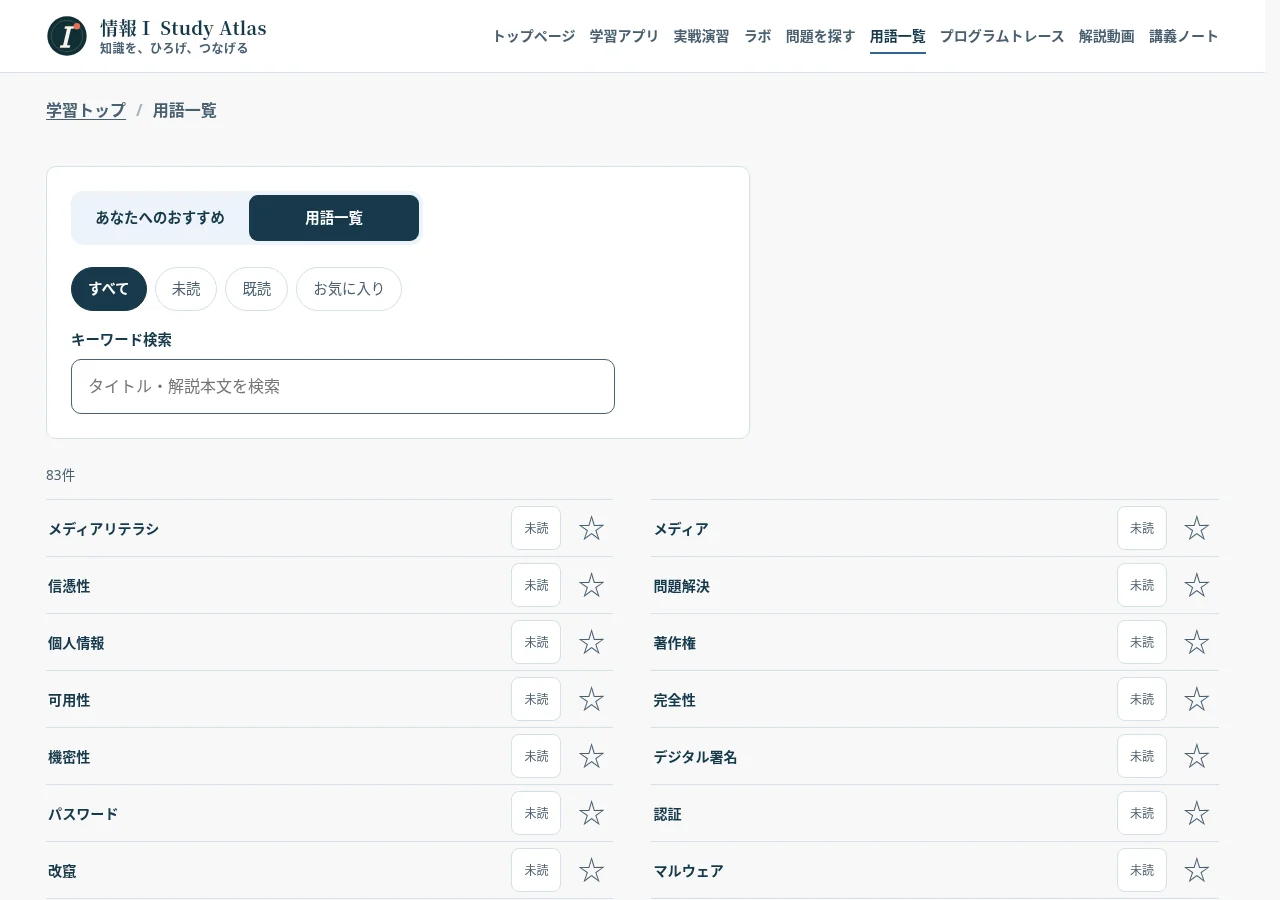
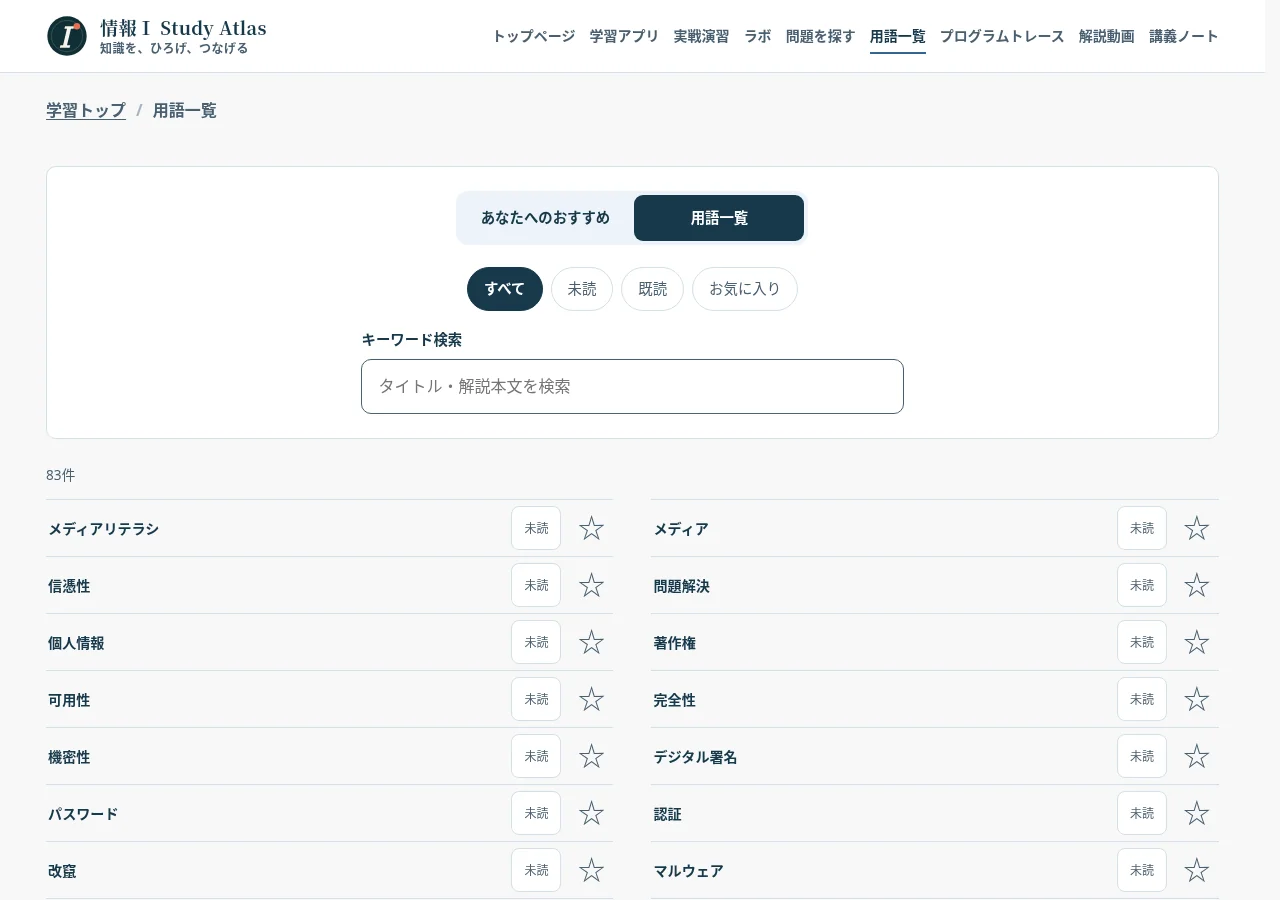
検索・試験選択の枠幅を揃えて操作を中央に配置

diff --git a/assets/term-page.css b/assets/term-page.css
@@ -285,7 +285,7 @@
 }
 
 /* Shared learning controls; the static list remains usable without JavaScript. */
-.term-controls { max-inline-size: var(--atlas-filter-panel); margin: 0 0 20px; padding: clamp(14px, 3vw, 24px); border: 1px solid var(--atlas-line); border-radius: var(--atlas-radius); background: var(--atlas-surface); }
+.term-controls { margin: 0 0 20px; padding: clamp(14px, 3vw, 24px); border: 1px solid var(--atlas-line); border-radius: var(--atlas-radius); background: var(--atlas-surface); }
 .term-controls fieldset { display: flex; flex-wrap: wrap; gap: 8px 18px; margin: 0 0 16px; padding: 0; border: 0; }
 .term-controls label { display: inline-flex; align-items: center; gap: 6px; min-height: 44px; cursor: pointer; font-size: .9rem; }
 .term-controls .term-search-label { display: block; min-height: 0; margin-bottom: 6px; font-weight: 700; }
@@ -340,3 +340,11 @@ button.term-read-status:focus-visible { outline: 3px solid var(--blue-strong); o
 .term-excerpt-link { white-space: pre-line; }
 
 .term-list.is-searching a:hover, .term-list.is-searching a:focus-visible { text-decoration: none; }
+
+@media screen and (min-width: 64rem) {
+  .term-controls {
+    padding-inline: max(24px, calc((100% - var(--atlas-search-field)) / 2));
+  }
+  .term-controls fieldset:first-child { margin-inline: auto; }
+  .term-controls fieldset:nth-child(2) { justify-content: center; }
+}

diff --git a/mock-exams/app.css b/mock-exams/app.css
@@ -1572,11 +1572,18 @@ button.column-clear {
 
 @media screen and (min-width: 64rem) {
   #app { padding-inline: 0; }
-  .catalog-page {
-    max-width: 50rem;
-    margin-inline: 0 auto;
+  .catalog-page { --catalog-content: 50rem; max-width: none; }
+  .catalog-page .section-picker {
+    padding-inline: max(0px, calc((100% - var(--catalog-content)) / 2));
   }
-  .mode-choices { max-inline-size: 46rem; }
+  .catalog-list-heading {
+    max-inline-size: var(--catalog-content);
+    margin-inline: auto;
+  }
+  .catalog-exam {
+    padding-inline: max(1.25rem, calc((100% - var(--catalog-content)) / 2));
+  }
+  .mode-choices { max-inline-size: 46rem; margin-inline: auto; }
   .catalog-exam > .exam-card-actions {
     display: flex;
     align-items: center;

diff --git a/docs/DESIGN.md b/docs/DESIGN.md
@@ -33,7 +33,7 @@
 
 通常の遷移はリンク、状態変更はボタンを使う。主要なリンク型ボタンには既存の button と button-primary クラス、補助操作には button と button-ghost を組み合わせる。ナビゲーションでは aria-current、押下状態では aria-pressed、開閉には details と summary を使う。状態は文字・記号・形でも判別できるようにする。フォームにはラベルを付け、入力文字は原則1rem、押しやすい高さは44pxを目安とする。
 
-PCの外枠は --atlas-frame で揃える。左右の余白は --atlas-gutter で確保し、最大幅は74remとする。長文には本文の読み幅を設定できる。検索パネルと入力・検索ボタンの並びには rem 単位の上限を設け、狭い画面では利用できる幅に収める。実戦演習の試験選択一覧は読み取りやすい幅で左揃えにする。
+PCの外枠は --atlas-frame で揃える。左右の余白は --atlas-gutter で確保し、最大幅は74remとする。長文には本文の読み幅を設定できる。検索パネルと入力・検索ボタンの並びには rem 単位の上限を設け、狭い画面では利用できる幅に収める。検索パネルや試験一覧の枠・区切り線は外枠に合わせ、幅を絞った入力欄や選択操作は枠内の中央に置く。
 
 カードや入力欄は --atlas-radius（10px）、境界は基本1px。カード間はおおむね12〜20px、セクション間は内容に応じて32〜64pxを使う。本文の区切りは細い罫線と見出しを基本とし、影を使う場合は --atlas-shadow を選ぶ。
 
